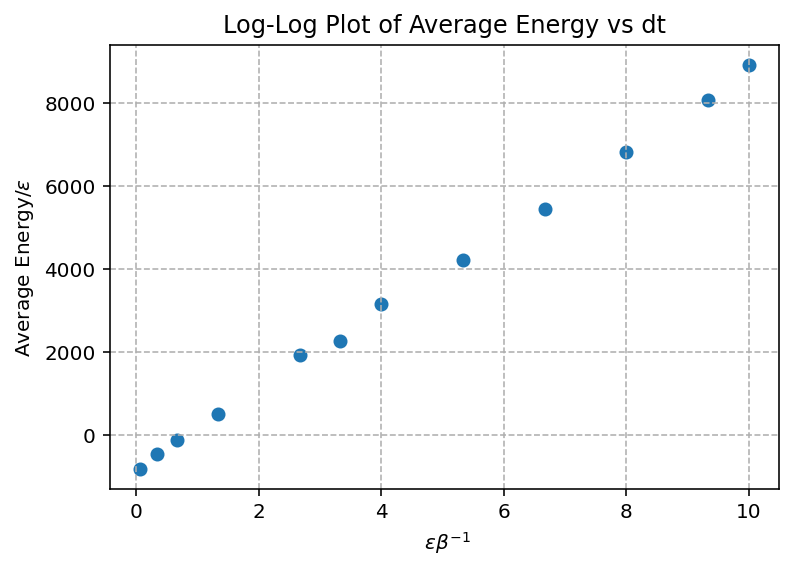
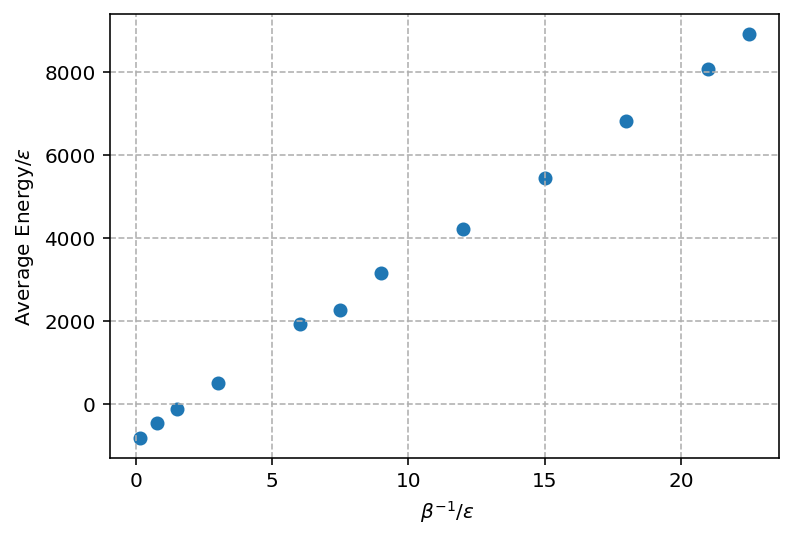
final touches

diff --git a/E1_p2/plotting.py b/E1_p2/plotting.py
@@ -56,7 +56,7 @@ for dt, x_vals, y_vals in plot1_data:
         plt.plot(x_vals, y_vals, label=f"dt = {dt:.1e}")
 
 plt.xlabel(r'Unitles time $\tau$')
-plt.ylabel(r'$E_{tot}/\beta$')
+plt.ylabel(r'$\beta E_{tot}$')
 # plt.title('Energy Evolution per Iteration Step')
 plt.legend()
 plt.grid(True, alpha=0.3)
@@ -74,7 +74,7 @@ sort_idx = np.argsort(dt_values)
 plt.loglog(dt_values[sort_idx], abs_sum_values[sort_idx], 'o-', color='tab:red', markersize=8)
 
 plt.xlabel('Time Step ($dt$)')
-plt.ylabel(r'$\Delta E_{tot}/\beta$')
+plt.ylabel(r'$\beta\Delta E_{tot}$')
 # plt.title('Total Absolute Variation vs. Time Step (Log-Log Scale)')
 plt.grid(True, which="both", ls="-", alpha=0.2)
 plt.tight_layout()

diff --git a/E1_p2/plotting 2.py b/E1_p2/plotting 2.py
@@ -59,11 +59,11 @@ average = average[sort_idx]
 
 # Log-log plot
 plt.figure()
-plt.scatter(1/betas / 1.5, average*1.5, marker='o', linestyle='-')
+plt.scatter(1/betas * 1.5, average*1.5, marker='o', linestyle='-')
 
-plt.xlabel(r' $\epsilon\beta^{-1}$')
+plt.xlabel(r' $\beta^{-1}/\epsilon$')
 plt.ylabel(r'Average Energy/$\epsilon$')
-plt.title('Log-Log Plot of Average Energy vs dt')
+# plt.title('Log-Log Plot of Average Energy vs dt')
 plt.grid(True, which="both", ls="--")
 
 plt.show()

diff --git a/E1_p2/plotting 3.py b/E1_p2/plotting 3.py
@@ -85,3 +85,5 @@ plt.ylabel(r'$\langle v(0)v(t) \rangle$')
 plt.grid(True, alpha=0.3)
 plt.tight_layout()
 
+
+print(f"D = {np.sum(y)*dt/3}")
